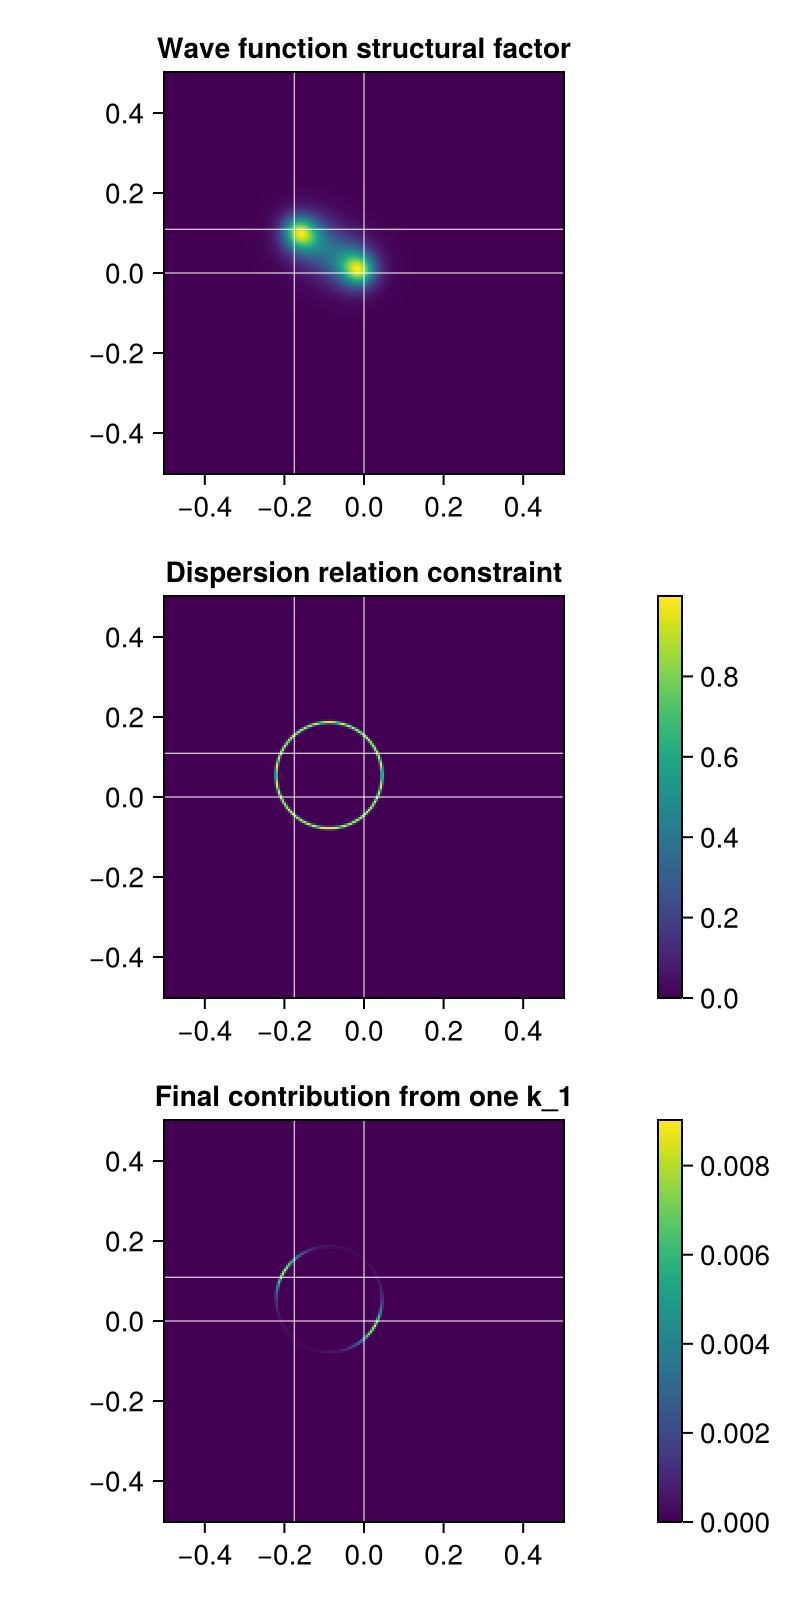
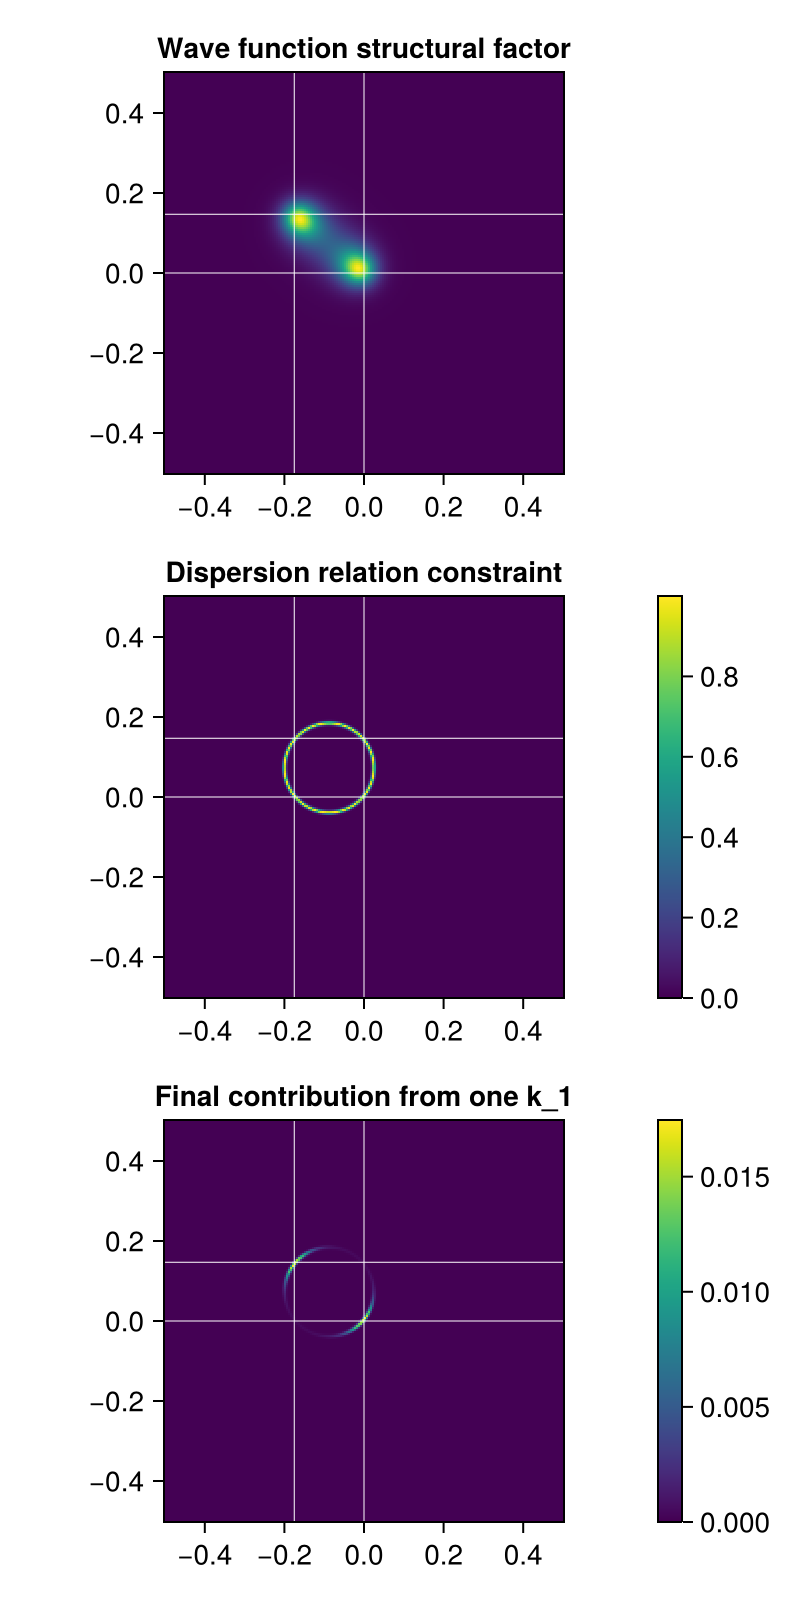
update breakdown of eeh case

diff --git a/simplified/eeh-k-contribution.md b/simplified/eeh-k-contribution.md
@@ -13,3 +13,21 @@ What makes the eeh and the ehh cases different includes
 This figure is also used to [benchmark the output of the new program with the old program](benchmarks.md#comparison-with-old-codes).
 
 # The structure of the contribution of each 
+
+Unlike the [ehh case](ehh-k1-wfn-and-dispersion-prototype.jl),
+in the eeh case, both peaks can contribute to the ARPES heatmap.
+In the case where we fix $\vb{k}_{\text{e2}}$ and let $\vb{k}_1$ move around is calculated in [`eeh-k1-wfn-and-dispersion-prototype.jl`](eeh-k1-wfn-and-dispersion-prototype.jl), the contribution of a single $\vb{k}_1$ is shown below
+
+![The dispersion relation and wave function structural factor of a single $\vb{k}_1$, where the photoelectron comes from the second peak](eeh-ring-and-peak-contribution-from-k1-example.png)
+
+On the other hand, the case where we fix $\vb{k}_{\text{e1}}$ and let $\vb{k}_2$ move around is calculated in [`eeh-k2-wfn-and-dispersion-prototype.jl`](eeh-k2-wfn-and-dispersion-prototype.jl), the contribution of a single $\vb{k}_1$ is shown below
+
+![The dispersion relation and wave function structural factor of a single $\vb{k}_2$, where the photoelectron comes from the first peak](eeh-ring-and-peak-contribution-from-k2-example.png)
+
+Note that in the above paragraph, when we say "contribution from $\vb{k}_2$", what we mean is "the electron from the second valley remains after photoemission happens and therefore contribute to the residue energy"; the electron driven out is from the first peak, not the second.
+
+In the output of [`eeh-k1-wfn-and-dispersion-vertical-stripe-prototype.jl`](eeh-k1-wfn-and-dispersion-vertical-stripe-prototype.jl), which is shown below:
+
+![Breakdown of vertical stripe](eeh-ring-and-peak-contribution-from-k1-vertical-stripe-example.png)
+
+we see that the wave function structural factor appears at the center of the dispersion relation circle, and significant contribution can be seen everywhere on the circle.
